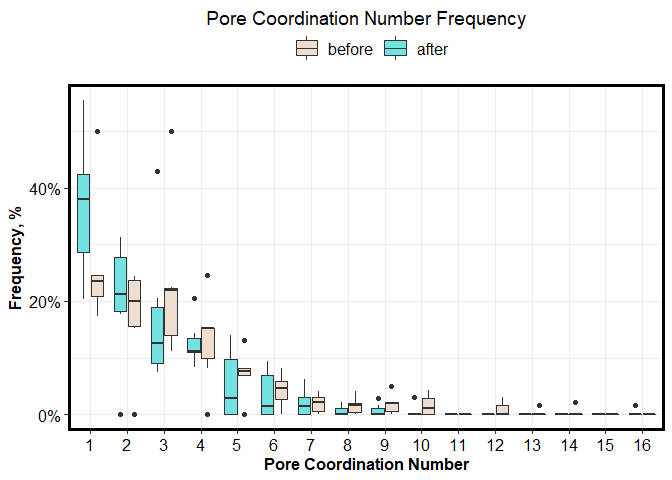
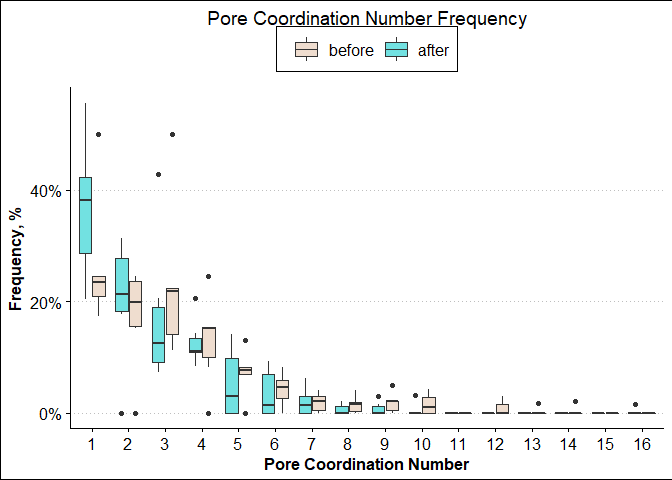
markdown updates

diff --git a/XCT-result.md b/XCT-result.md
@@ -165,7 +165,7 @@ Erin C Rooney
 
 <summary>Session Info</summary>
 
-    #> [1] "2020-10-26"
+    #> [1] "2020-10-27"
 
     #> R version 4.0.1 (2020-06-06)
     #> Platform: x86_64-w64-mingw32/x64 (64-bit)
@@ -184,11 +184,11 @@ Erin C Rooney
     #> [1] stats     graphics  grDevices utils     datasets  methods   base     
     #> 
     #> other attached packages:
-    #>  [1] patchwork_1.0.1  PNWColors_0.1.0  ggpubr_0.4.0     PairedData_1.1.1
-    #>  [5] lattice_0.20-41  mvtnorm_1.1-1    gld_2.6.2        MASS_7.3-51.6   
-    #>  [9] forcats_0.5.0    stringr_1.4.0    dplyr_1.0.0      purrr_0.3.4     
-    #> [13] readr_1.3.1      tidyr_1.1.0      tibble_3.0.1     ggplot2_3.3.2   
-    #> [17] tidyverse_1.3.0  agricolae_1.3-3 
+    #>  [1] patchwork_1.0.1  PNWColors_0.1.0  ggthemes_4.2.0   ggpubr_0.4.0    
+    #>  [5] PairedData_1.1.1 lattice_0.20-41  mvtnorm_1.1-1    gld_2.6.2       
+    #>  [9] MASS_7.3-51.6    forcats_0.5.0    stringr_1.4.0    dplyr_1.0.0     
+    #> [13] purrr_0.3.4      readr_1.3.1      tidyr_1.1.0      tibble_3.0.1    
+    #> [17] ggplot2_3.3.2    tidyverse_1.3.0  agricolae_1.3-3 
     #> 
     #> loaded via a namespace (and not attached):
     #>  [1] nlme_3.1-148      fs_1.4.2          lubridate_1.7.9   httr_1.4.1       
